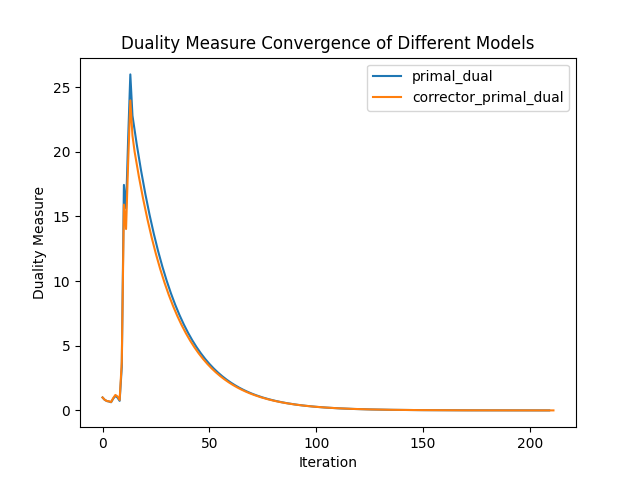
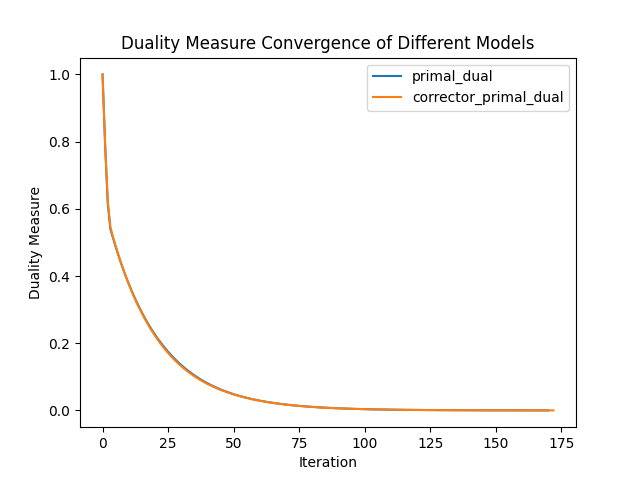
Fix Central Path

diff --git a/mp3/models/central_path.py b/mp3/models/central_path.py
@@ -8,7 +8,7 @@ from tqdm import trange
 import wandb
 
 class CentralPathSolver():
-    def __init__(self, c, A, b, t=10, use_wandb=False, vis=True):
+    def __init__(self, c, A, b, t=1, use_wandb=False, vis=True):
         self.c = c
         self.A = A
         self.b = b
@@ -19,12 +19,15 @@ class CentralPathSolver():
             'values': [],
         }
 
-    def solve(self, tol=1e-2, max_iter=5):
+    def solve(self, tol=1e-5, max_iter=100):
         def origin_obj_fn(x):
             return self.c @ x
         
         def barrier_fn(x):
-            return -np.sum(np.log(x))
+            barrier = -np.sum(np.log(x+1e-7))
+            assert not np.isnan(barrier)
+            # barrier = np.inf if np.isnan(barrier) else barrier
+            return barrier
         
         def obj_fn(x):
             return self.t * origin_obj_fn(x) + barrier_fn(x)
@@ -43,9 +46,9 @@ class CentralPathSolver():
     
     def gradient_augmented_lagrangian(self, x):
         fx_grad = self.t * self.c
-        phi_grad = -1/x
-        lambda_grad = -np.sum(self.A * self.lamb[:, None], axis=0)
-        mu_grad = self.mu**2 * (self.A @ x - self.b) @ self.A
+        phi_grad = -1/(x+1e-7)
+        lambda_grad = self.A.T @ self.lamb
+        mu_grad = self.mu * self.A.T @ (self.A @ x - self.b)
         grad = fx_grad + phi_grad + lambda_grad + mu_grad
         return grad
     
@@ -55,22 +58,23 @@ class CentralPathSolver():
         
         def augmented_lagrangian(x):
             L = obj_fn(x)
-            L += -np.sum(self.lamb * (self.A @ x - self.b))
+            L += np.sum(self.lamb * (self.A @ x - self.b))
             L += 0.5 * self.mu * np.linalg.norm(self.A @ x - self.b)**2
             return L
         
         last_x = x0
         self.lamb = np.ones(self.A.shape[0])
-        self.mu = 1 # num_eqs
+        self.mu = 1
         for i in trange(max_iter):
             res = optimize.minimize(
                 augmented_lagrangian, x0, 
                 jac=self.gradient_augmented_lagrangian, 
                 method='L-BFGS-B',
+                bounds=[(0, np.inf) for _ in range(x0.shape[0])],
                 options={'disp': False}
             )
             x0 = res.x
-            self.lamb = self.lamb - self.mu * (self.A @ x0 - self.b)
+            self.lamb = self.lamb + self.mu * (self.A @ x0 - self.b)
             self.mu = 0.9 * self.mu
             print(f"Value: {np.dot(self.c, x0)}")
             self.history['values'].append(np.dot(self.c, x0))
@@ -91,7 +95,7 @@ class CentralPathSolver():
 
 if __name__ == "__main__":
     def generate_problem(v_num=30, num_eq=10):
-        c = np.random.randn(v_num)
+        c = np.abs(np.random.randn(v_num))
         A = np.random.randn(num_eq, v_num)
         b = np.random.randn(num_eq)
         return c, A, b

diff --git a/mp3/run.py b/mp3/run.py
@@ -38,13 +38,23 @@ def run(args):
     # Visualize the results, compare them on the same plot
     if args.vis:
         for model in result_dict.keys():
-            values = [-np.log(-v) for v in result_dict[model]['value_history']]
-            plt.plot(values, label=model)
+            plt.plot(result_dict[model]['value_history'], label=model)
         plt.legend()
         plt.xlabel('Iteration')
         plt.ylabel('Objective Value')
         plt.title('Value Convergence of Different Models')
         plt.savefig(f'./output/res_v{args.num_vars}_e{args.num_eqs}.png')
+        plt.close()
+        plt.cla()
+
+        for model in result_dict.keys():
+            if 'rp_norm_history' in result_dict[model]:
+                plt.plot(result_dict[model]['rp_norm_history'], label=model)
+        plt.legend()
+        plt.xlabel('Iteration')
+        plt.ylabel('Primal Residual Norm')
+        plt.title('Primal Residual Norm Convergence of Different Models')
+        plt.savefig(f'./output/res_v{args.num_vars}_e{args.num_eqs}_primal.png')
         plt.close()
         plt.cla()
 
@@ -64,7 +74,7 @@ if __name__ == '__main__':
     parser.add_argument('--vis', action='store_true', help='Visualize the optimization process')
     parser.add_argument('--num_vars', type=int, default=30, help='Number of variables')
     parser.add_argument('--num_eqs', type=int, default=15, help='Number of equations')
-    parser.add_argument('--tol', type=float, default=1e-3, help='Tolerance for convergence')
+    parser.add_argument('--tol', type=float, default=1e-4, help='Tolerance for convergence')
     parser.add_argument('--max_iter', type=int, default=500, help='Maximum number of iterations')
     parser.add_argument('--wandb', action='store_true', help='Use wandb for logging')
     args = parser.parse_args()

diff --git a/mp3/models/corrector_primal_dual.py b/mp3/models/corrector_primal_dual.py
@@ -122,6 +122,7 @@ class CorrectorPrimalDualSolver(BaseSolver):
             'value_history': self.history['values'],
             'duality_measure': mu,
             'duality_measure_history': self.history['dual_measures'],
+            'rp_norm_history': self.history['rp_norms'],
         }
         if self.use_wandb:
             wandb.finish()

diff --git a/mp3/models/primal_dual.py b/mp3/models/primal_dual.py
@@ -102,6 +102,7 @@ class PrimalDualSolver(BaseSolver):
             'value_history': self.history['values'],
             'duality_measure': mu,
             'duality_measure_history': self.history['dual_measures'],
+            'rp_norm_history': self.history['rp_norms'],
         }
         if self.use_wandb:
             wandb.finish()

diff --git a/mp3/utils.py b/mp3/utils.py
@@ -2,7 +2,7 @@ import numpy as np
 import z3
 
 def generate_problem(v_num=30, num_eq=10):
-    c = np.random.randn(v_num)
+    c = np.abs(np.random.randn(v_num))
     A = np.random.randn(num_eq, v_num)
     b = np.random.randn(num_eq)
     return c, A, b
